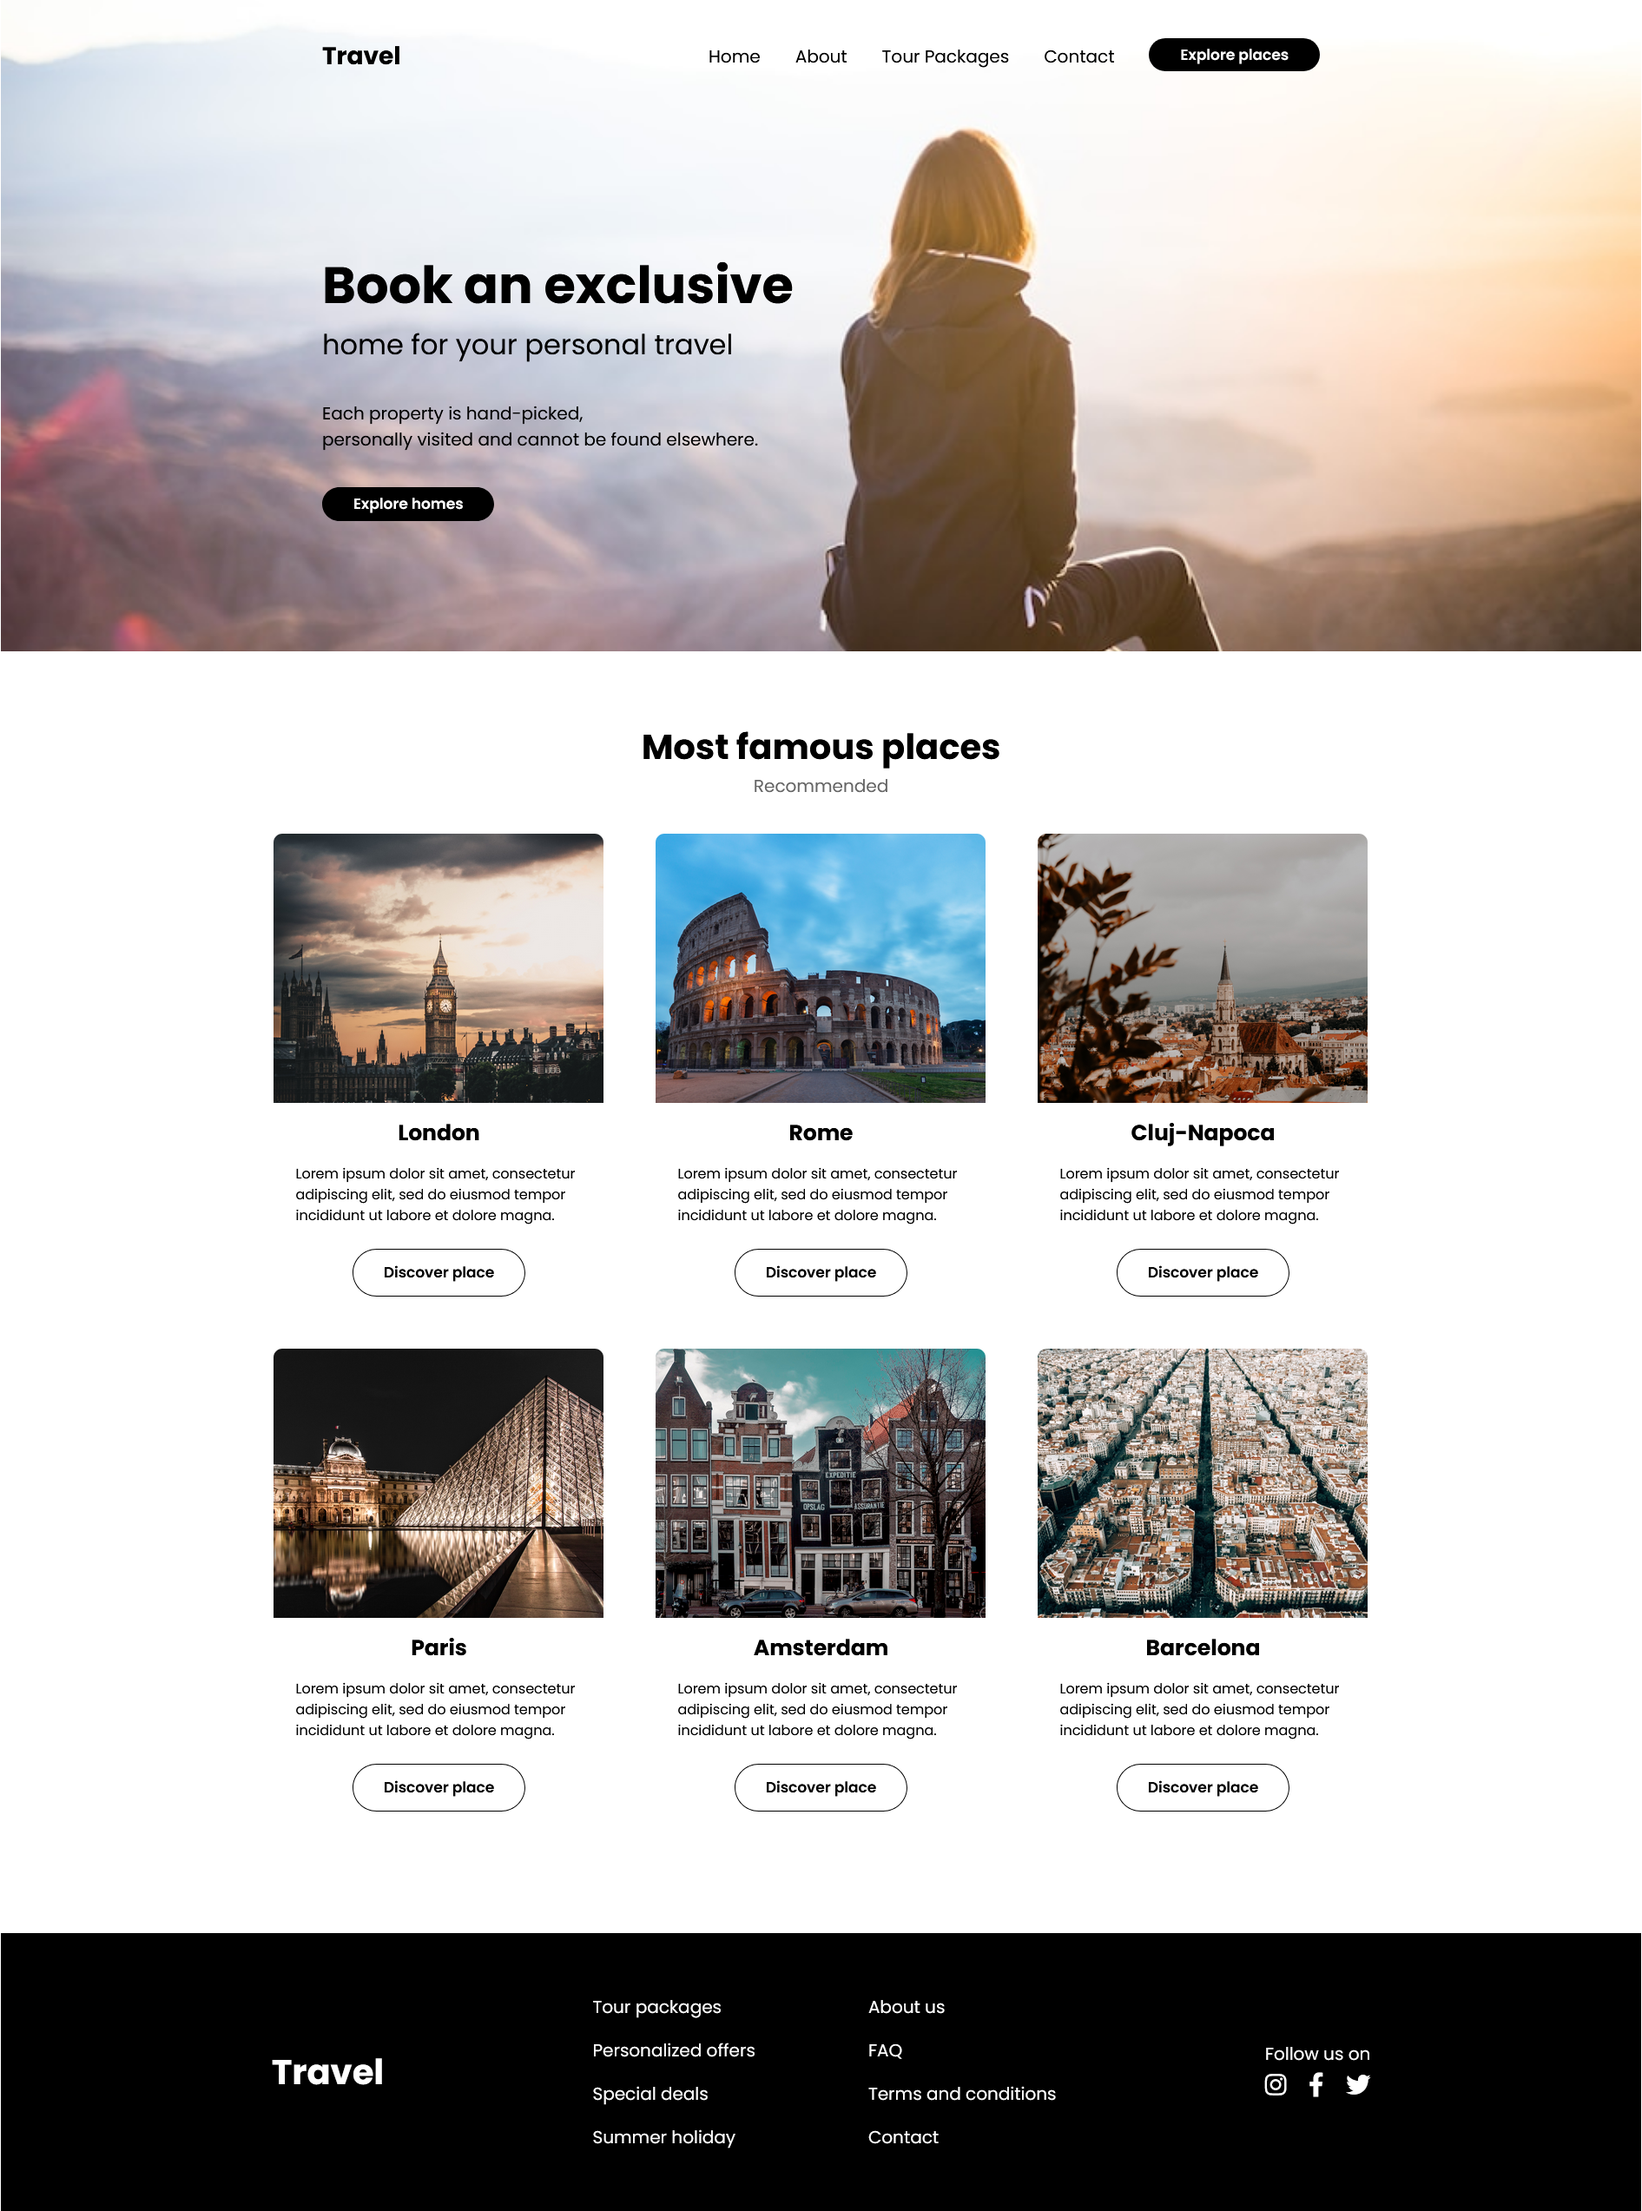
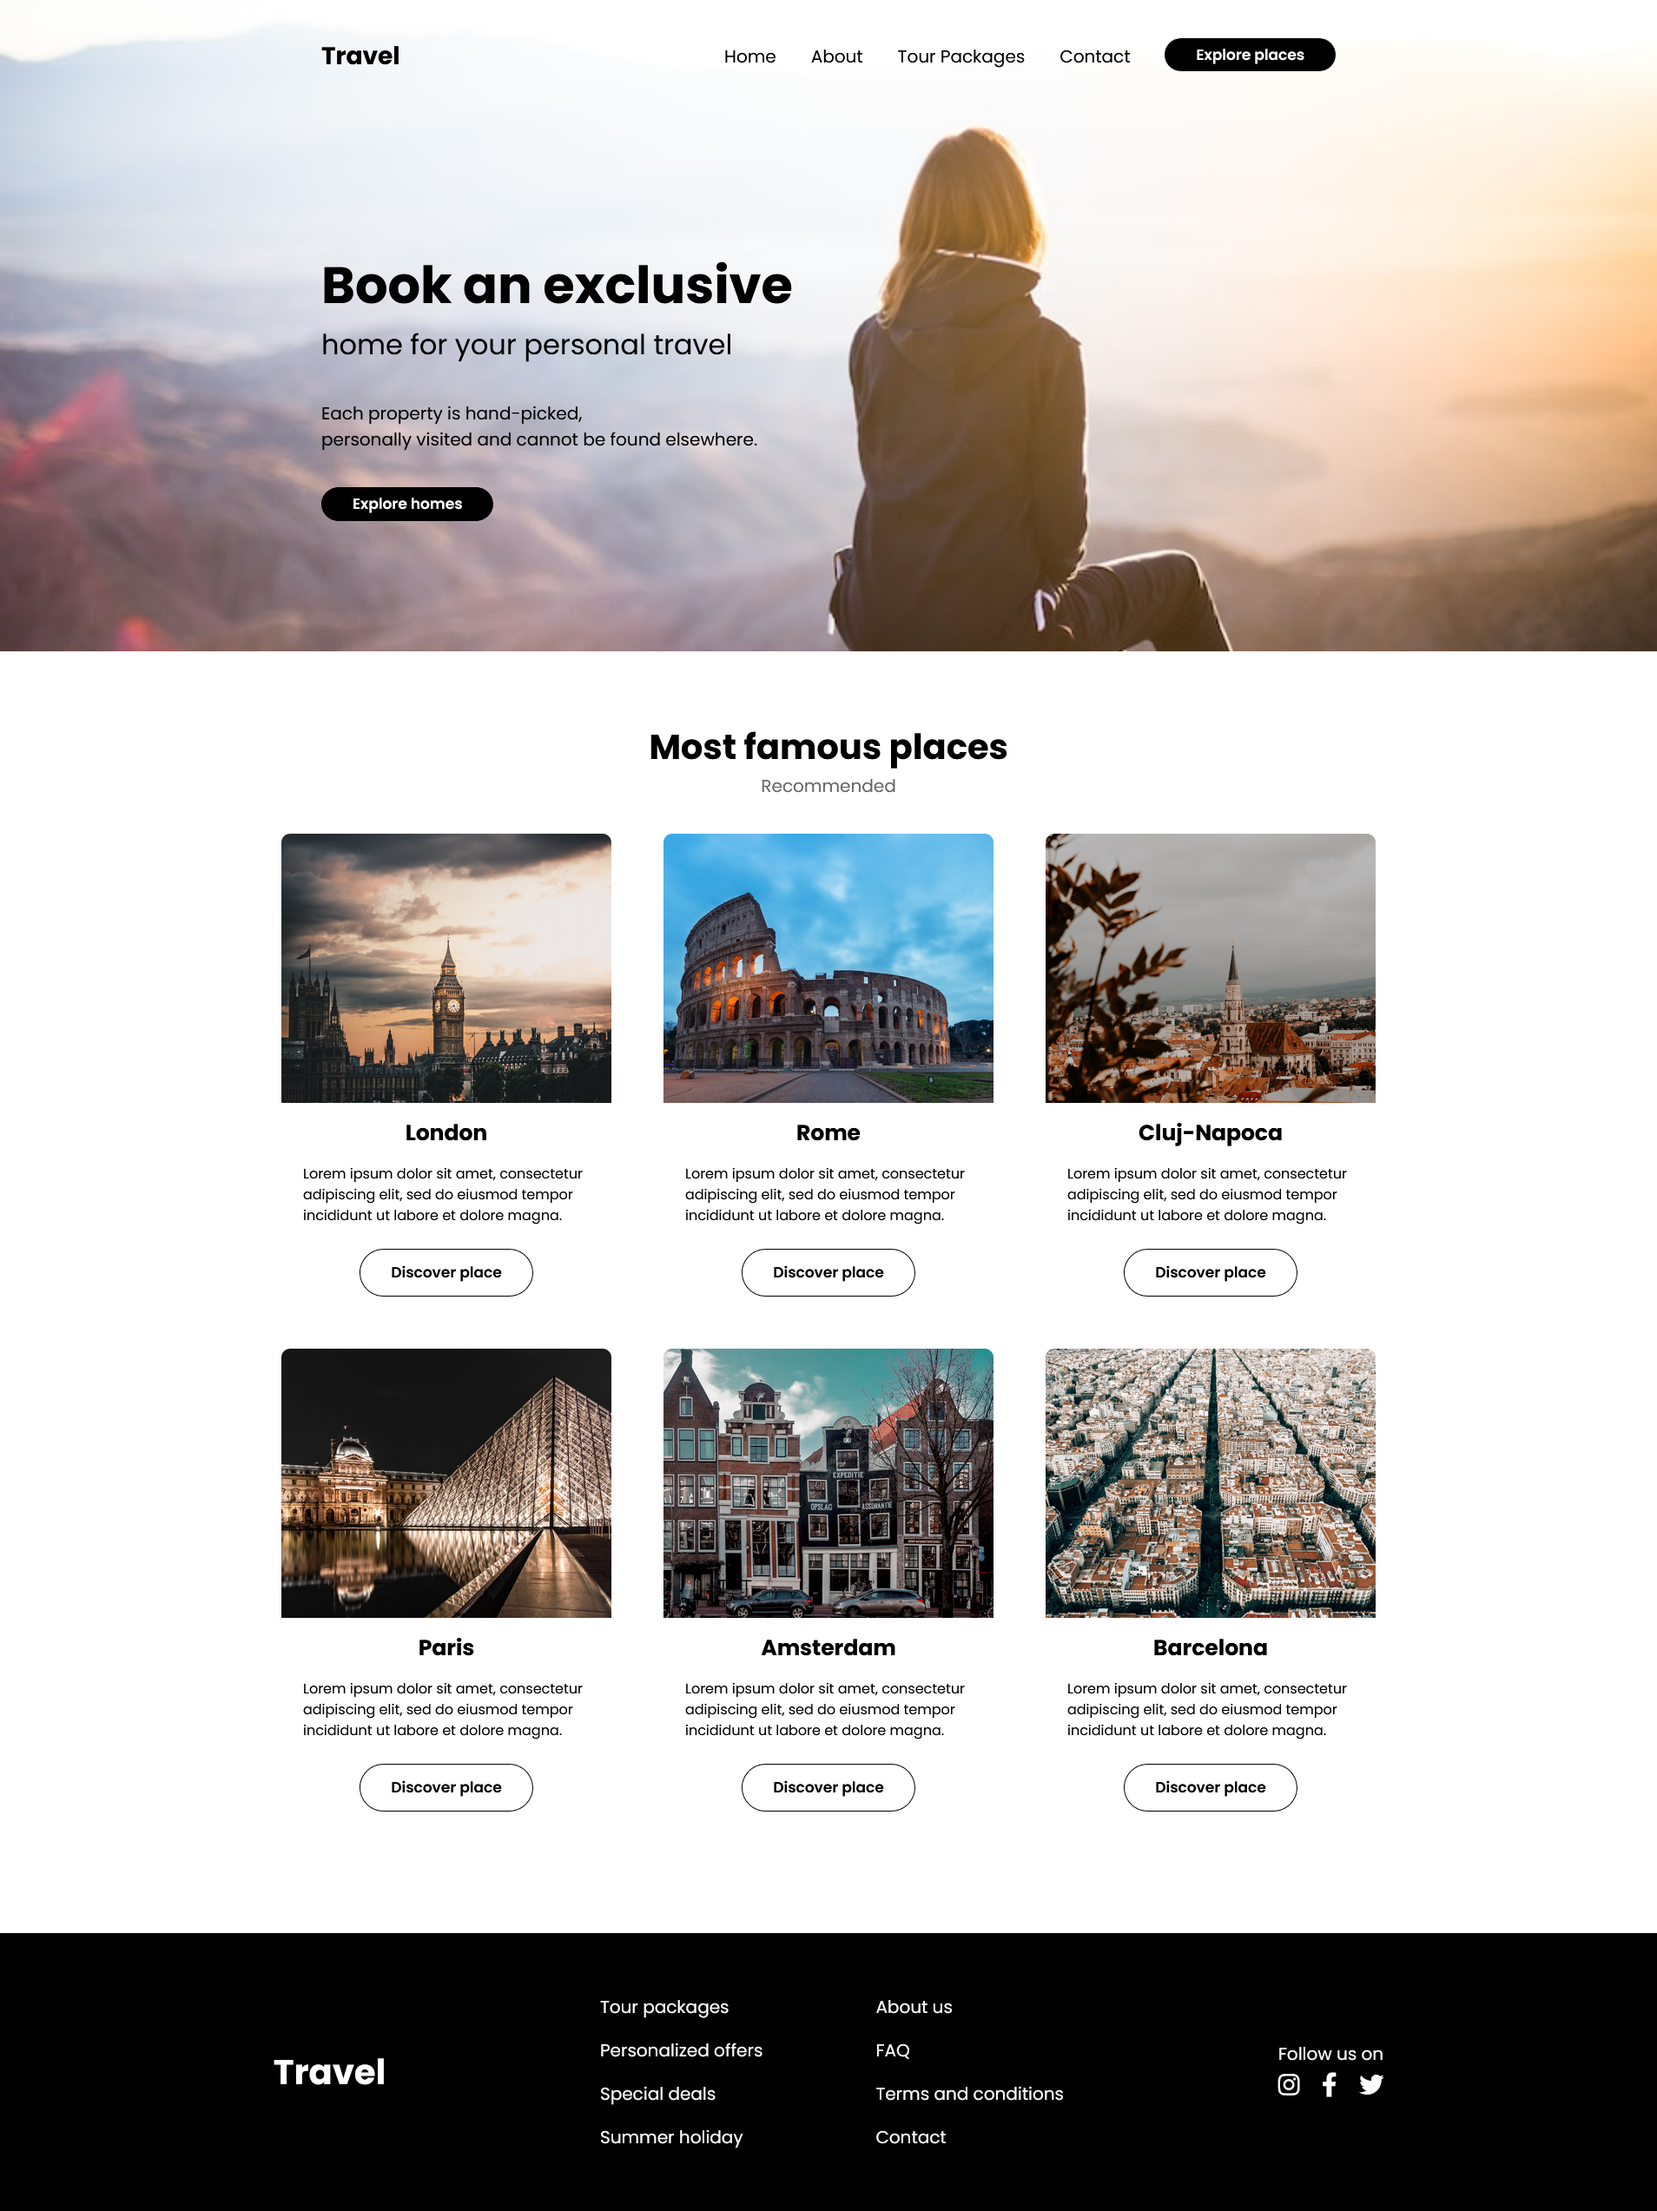
P03 Travel Agency

diff --git a/09HTML_And_CSS_2023_05_11/08Exam_Preparation/EX02/P03TravelAgency/styles/travel-agency.css b/09HTML_And_CSS_2023_05_11/08Exam_Preparation/EX02/P03TravelAgency/styles/travel-agency.css
@@ -6,7 +6,7 @@ html {
 }
 
 .site {
-    width: 99vw;
+    width: 100vw;
     margin: 0 auto;
 }
 
